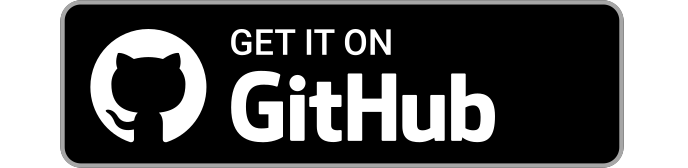
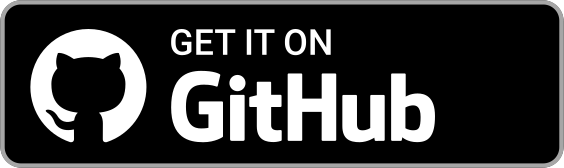
outertune: Update readme and repo link
* Remove ffMetadataEx (for now)
* Make Weblate link more visible
* Download badge formatting
* Be clearer in PR merge permissions
* Misc changes

diff --git a/app/src/main/java/com/dd3boh/outertune/ui/screens/SetupWizard.kt b/app/src/main/java/com/dd3boh/outertune/ui/screens/SetupWizard.kt
@@ -615,7 +615,7 @@ fun SetupWizard(
 
                             Row {
                                 IconButton(
-                                    onClick = { uriHandler.openUri("https://github.com/DD3Boh/OuterTune") }
+                                    onClick = { uriHandler.openUri("https://github.com/OuterTune/OuterTune") }
                                 ) {
                                     Icon(
                                         painter = painterResource(R.drawable.github),

diff --git a/app/src/main/java/com/dd3boh/outertune/ui/screens/settings/AboutScreen.kt b/app/src/main/java/com/dd3boh/outertune/ui/screens/settings/AboutScreen.kt
@@ -169,7 +169,7 @@ fun AboutScreen(
 
         Row {
             IconButton(
-                onClick = { uriHandler.openUri("https://github.com/DD3Boh/OuterTune") }
+                onClick = { uriHandler.openUri("https://github.com/OuterTune/OuterTune") }
             ) {
                 Icon(
                     painter = painterResource(R.drawable.github),

diff --git a/CONTRIBUTING.md b/CONTRIBUTING.md
@@ -19,6 +19,19 @@ cost of compatibility.
 
 # Contributing to OuterTune
 
+## Translations
+
+We use Weblate to translate OuterTune. For more details or to get started,
+visit [our Weblate page](https://hosted.weblate.org/projects/outertune/).
+Thank you for the libre tier!
+
+### Important
+
+- Translators should submit strings through Weblate, however if there are changes that cannot be accomplished via
+  Weblate, you may submit a pull request manually
+- Make sure new strings are in the right place, which is `strings-ot.xml` for OuterTune strings
+- If they are ported from upstream InnerTune (ex. when syncing upstream), they go into `strings.xml`
+
 ## Submitting a pull request
 
 To make everyone's life easier, there are a set of guidelines that are to be followed when submitting pull requests.
@@ -32,18 +45,18 @@ To make everyone's life easier, there are a set of guidelines that are to be fol
 ## Commiting guidelines
 
 - Prefix commits with tags, and provide descriptions if necessary. These are generally done in format:
-  `tag: commit_name`. [Example](https://github.com/DD3Boh/OuterTune/commit/798e8366227dd2cc38355224c733dbf7e8ffcee0)
+  `tag: commit_name`. [Example](https://github.com/OuterTune/OuterTune/commit/798e8366227dd2cc38355224c733dbf7e8ffcee0)
     - A list of tags commonly used is provided below
 - Commit descriptions are not required, but highly recommended
 - When porting/cherry-picking/stealing from other repositories or sources:
     - Maintain
-      authorship. [Example](https://github.com/DD3Boh/OuterTune/commit/b0dc59682190b41f0200e9df5174322acaa3d40d)
+      authorship. [Example](https://github.com/OuterTune/OuterTune/commit/b0dc59682190b41f0200e9df5174322acaa3d40d)
     - If this is not possible please provide the source in the commit
-      description. [Example](https://github.com/DD3Boh/OuterTune/pull/59/commits/e40325dd86ac2c30347cfd4f9e92bbf15a0d0c82)
+      description. [Example](https://github.com/OuterTune/OuterTune/pull/59/commits/e40325dd86ac2c30347cfd4f9e92bbf15a0d0c82)
 - IMPORTANT: When merging `dev` into your branch
     - Best: Please rebase over dev
     - Less good: Merging dev into your branch via merge commit. We do not like this as it clobbers the commit history.
-      If you do this, your pull request will be squashed and merged
+      If you do this, your pull request will be rebased/squashed and merged
 - IMPORTANT: Merge conflicts
     - As per the previous point, please rebase and conflicts are to be resolve in the commits themselves
     - We may ask you to rebase your PR if merge conflicts are an issue when merging
@@ -51,8 +64,7 @@ To make everyone's life easier, there are a set of guidelines that are to be fol
 - If database schema changes are required, please state clearly if a version increment is required. Additional details
   are in the `Database schema changes` section
 - For multi-part commits where all parts are required for functionality, use
-  `[1/2], [2/2], etc`. [See example](https://github.com/DD3Boh/OuterTune/pull/59/commits)
-- Make sure new strings are in the right place, which is `strings-ot.xml` unless they are being ported from upstream InnerTune, on which case it is `strings.xml`.
+  `[1/2], [2/2], etc`. [See example](https://github.com/OuterTune/OuterTune/pull/59/commits)
 - Do not mess with translation files directly, this is managed with Weblate.
 
 ### Tags
@@ -64,15 +76,14 @@ To make everyone's life easier, there are a set of guidelines that are to be fol
 | readme        | Readme changes                                                                                      |
 | fixup         | Amendments to certain commits. this is generally done in the format `fixup: <old commit name here>` |
 
-| Tag (ui)    | Description                                                                        |
-|-------------|------------------------------------------------------------------------------------|
-| ui          | User interface                                                                     |
-| multiselect | Multi-select of songs/items in library                                             |
-| library     | Library general components. Use the specific ones below if it is a specific change |
-| artist      | Playlist screens & components                                                      |
-| album       | Album screens & components                                                         |
-| playlist    | Playlist screens & components                                                      |
-| songs       | Song screens & components                                                          |
+| Tag (ui) | Description                                                                        |
+|----------|------------------------------------------------------------------------------------|
+| ui       | User interface                                                                     |
+| library  | Library general components. Use the specific ones below if it is a specific change |
+| artist   | Playlist screens & components                                                      |
+| album    | Album screens & components                                                         |
+| playlist | Playlist screens & components                                                      |
+| songs    | Song screens & components                                                          |
 
 | Tag (Playback) | Description               |
 |----------------|---------------------------|
@@ -90,10 +101,11 @@ To make everyone's life easier, there are a set of guidelines that are to be fol
 | lm                | General local library components | 
 | scanner           | Local media scanner              |
 
-| Tag (Misc)    | Description                                                      |
-|---------------|------------------------------------------------------------------|
-| `<file name>` | Changes for one single file, that to not fit into any other tags |
-| app           | General changes, or anything that does not fit any other tags    |
+| Tag (Misc)    | Description                                                                                     |
+|---------------|-------------------------------------------------------------------------------------------------|
+| `<file name>` | Changes for one single file, that to not fit into any other tags                                |
+| app           | General changes, or anything that does not fit any other tags. (For within the app module only) |
+| outertune     | General changes that span across multiple modules                                               |
 
 - Please use a tag if it already exists, however, if you are developing a new major feature, you are free to assign your
   own appropriate tag
@@ -104,4 +116,4 @@ To make everyone's life easier, there are a set of guidelines that are to be fol
 - Clearly state if a database version increment is required
 - You are require to make sure migration works from the previous database version
 - Commits modifying the database version should be all be contained in that single commit
-    - The generate json JSON, Entity classes, migration conflict resolution, etc.
+    - These include generating JSON, Entity classes, migration conflict resolution, bumping database version etc.

diff --git a/README.md b/README.md
@@ -4,13 +4,16 @@
 
 A Material 3 YouTube Music client & local music player for Android
 
-[![Latest release](https://img.shields.io/github/v/release/DD3Boh/OuterTune?include_prereleases)](https://github.com/DD3Boh/OuterTune/releases)
-[![License](https://img.shields.io/github/license/DD3Boh/OuterTune)](https://www.gnu.org/licenses/gpl-3.0)
-[![Downloads](https://img.shields.io/github/downloads/DD3Boh/OuterTune/total)](https://github.com/DD3Boh/OuterTune/releases)
+[![Latest release](https://img.shields.io/github/v/release/OuterTune/OuterTune?include_prereleases)](https://github.com/OuterTune/OuterTune/releases)
+[![License](https://img.shields.io/github/license/OuterTune/OuterTune)](https://www.gnu.org/licenses/gpl-3.0)
+[![Downloads](https://img.shields.io/github/downloads/OuterTune/OuterTune/total)](https://github.com/OuterTune/OuterTune/releases)
 
-[<img src="assets/badge_github.png" alt="Get it on GitHub" height="40">](https://github.com/DD3Boh/OuterTune/releases/latest)
-[<img src="assets/IzzyOnDroidButtonGreyBorder.svg" alt="Get it on IzzyOnDroid" height="40">](https://apt.izzysoft.de/fdroid/index/apk/com.dd3boh.outertune)
+
+<!-- use  "  " for spacing -->
+[<img src="assets/badge_github.png" alt="Get it on GitHub" height="40">](https://github.com/OuterTune/OuterTune/releases/latest)  
+[<img src="assets/IzzyOnDroidButtonGreyBorder.svg" alt="Get it on IzzyOnDroid" height="40">](https://apt.izzysoft.de/fdroid/index/apk/com.dd3boh.outertune)  
 [<img src="assets/badge_obtainium.png" alt="Get it on Obtainium" height="40">](https://apps.obtainium.imranr.dev/redirect?r=obtainium://app/%7B%22id%22%3A%22com.dd3boh.outertune%22%2C%22url%22%3A%22https%3A%2F%2Fgithub.com%2FDD3Boh%2FOuterTune%22%2C%22author%22%3A%22DD3Boh%22%2C%22name%22%3A%22OuterTune%22%2C%22preferredApkIndex%22%3A0%2C%22additionalSettings%22%3A%22%7B%5C%22includePrereleases%5C%22%3Afalse%2C%5C%22fallbackToOlderReleases%5C%22%3Atrue%2C%5C%22filterReleaseTitlesByRegEx%5C%22%3A%5C%22%5C%22%2C%5C%22filterReleaseNotesByRegEx%5C%22%3A%5C%22%5C%22%2C%5C%22verifyLatestTag%5C%22%3Afalse%2C%5C%22dontSortReleasesList%5C%22%3Afalse%2C%5C%22useLatestAssetDateAsReleaseDate%5C%22%3Afalse%2C%5C%22trackOnly%5C%22%3Afalse%2C%5C%22versionExtractionRegEx%5C%22%3A%5C%22%5C%22%2C%5C%22matchGroupToUse%5C%22%3A%5C%22%5C%22%2C%5C%22versionDetection%5C%22%3Atrue%2C%5C%22releaseDateAsVersion%5C%22%3Afalse%2C%5C%22useVersionCodeAsOSVersion%5C%22%3Afalse%2C%5C%22apkFilterRegEx%5C%22%3A%5C%22%5C%22%2C%5C%22invertAPKFilter%5C%22%3Afalse%2C%5C%22autoApkFilterByArch%5C%22%3Atrue%2C%5C%22appName%5C%22%3A%5C%22%5C%22%2C%5C%22shizukuPretendToBeGooglePlay%5C%22%3Afalse%2C%5C%22allowInsecure%5C%22%3Afalse%2C%5C%22exemptFromBackgroundUpdates%5C%22%3Afalse%2C%5C%22skipUpdateNotifications%5C%22%3Afalse%2C%5C%22about%5C%22%3A%5C%22A%20Material%203%20YouTube%20Music%20client%20%26%20local%20music%20player%20for%20Android%5C%22%7D%22%2C%22overrideSource%22%3A%22GitHub%22%7D)
+
 
 ## Features
 
@@ -45,11 +48,6 @@ synchronization, local media playback, multiple queues, and a new take on UI des
 >If you're in a region where YouTube Music is not supported, you won't be able to use this app
 ***unless*** you have a proxy or VPN to connect to a YTM supported region.
 
-## Extras
-
-ffMetadataEx is an optional standalone plugin that contains the FFmpeg libraries required for the FFmpeg tag extractor.
-For more information and downloads, see https://github.com/OuterTune/ffMetadataEx
-
 ## FAQ
 
 ### Q: How to scrobble music to LastFM, LibreFM, ListenBrainz or GNU FM?
@@ -69,9 +67,9 @@ try [Pano Scrobbler](https://play.google.com/store/apps/details?id=com.arn.scrob
 We are looking for contributors, translators, and maintainers! If you would like to help out, or just wish to build the
 app yourself, please see the [building and contribution notes](./CONTRIBUTING.md).
 
-### Translating
+### Submitting Translations
 
-We use Weblate (thank you for the libre tier!) to translate OuterTune. You can help translate OuterTune with it!
+We use Weblate to translate OuterTune. For more details or to get started, visit our [Weblate page](https://hosted.weblate.org/projects/outertune/).
 
 <a href="https://hosted.weblate.org/projects/outertune/">
 <img src="https://hosted.weblate.org/widget/outertune/multi-auto.svg" alt="Translation status" />

diff --git a/.github/pull_request_template.md b/.github/pull_request_template.md
@@ -40,15 +40,17 @@ Delete this if it doesn't apply to your PR. -->
 
 <!-- Please mark WIP pull requests and "Draft" and only "Ready for review" once it is ready to be merged  -->
 
-- [ ] I read the [contribution guidelines](https://github.com/DD3Boh/OuterTune/blob/dev/CONTRIBUTING.md).
+- [ ] I have read and agreed to the [contribution guidelines](https://github.com/OuterTune/OuterTune/blob/dev/CONTRIBUTING.md).
 
-### Merge conflict resolution
+### Merging strategy / Merge conflict resolution
+
 Select only ONE. If you select none, or both, the first selection will used as your final choice
 
-- [ ] In the event of merge conflicts, I give permission for the developers to rebase or squash my code or apply merge
-  conflict amendments as needed
-- [ ] In the event of merge conflicts, I ***DO NOT*** give permission for the developers to modify my code to solve merge
-  conflicts. I understand in the event of a merge conflict, I will be responsible to resolve merge conflicts in a way
-  that adheres to the [contribution guidelines](https://github.com/DD3Boh/OuterTune/blob/dev/CONTRIBUTING.md)
+- [ ] When merging this pull request, or in the event of merge conflicts, I give permission for the merger to rebase,
+  or squash my code, or apply merge conflict amendments as needed
+- [ ] When merging this pull request, or in the event of merge conflicts, I ***DO NOT*** give permission for the
+  merger to modify my code to solve merge conflicts. I understand in the event of a merge conflict, I will be
+  responsible to resolve merge conflicts in a way that adheres to
+  the [contribution guidelines](https://github.com/OuterTune/OuterTune/blob/dev/CONTRIBUTING.md)
 
 <!-- This pull request template is based on Newpipe's:  https://github.com/TeamNewPipe/NewPipe/ -->
